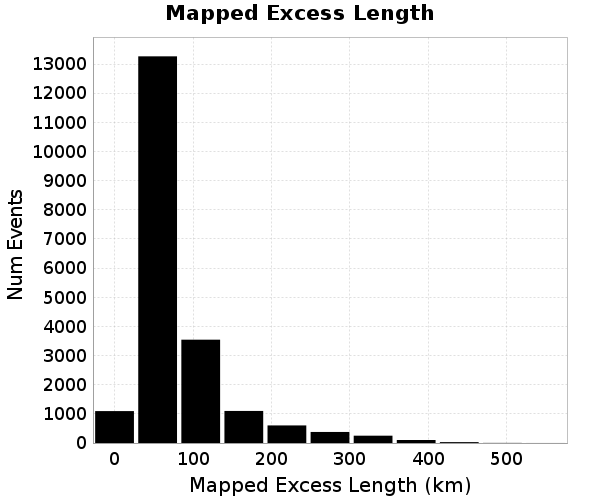
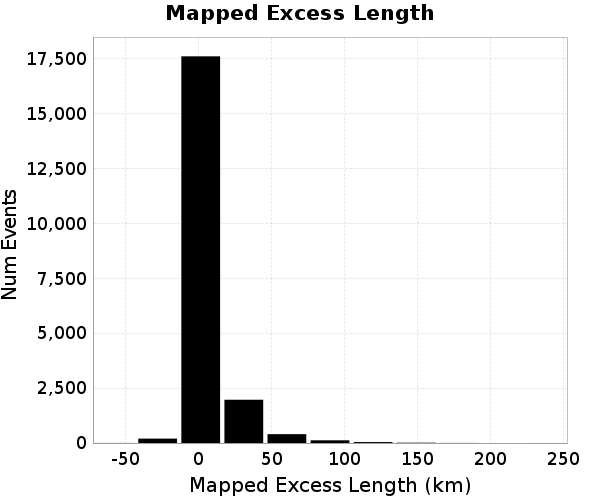
fixed length calcs

diff --git a/catalogs/rundir2457/extreme_events/index.html b/catalogs/rundir2457/extreme_events/index.html
@@ -105,11 +105,11 @@ img {
 <tr><th>Event ID</th><th>Mapped Length Ratio</th><th>Plot</th></tr>
 </thead>
 <tbody>
-<tr><td><strong>1143371</strong></td><td><strong>117.3</strong></td><td><img src="resources/event_1143371.png" alt="Rupture Plot" /></td></tr>
-<tr><td><strong>1057302</strong></td><td><strong>98.28</strong></td><td><img src="resources/event_1057302.png" alt="Rupture Plot" /></td></tr>
-<tr><td><strong>1109125</strong></td><td><strong>95.81</strong></td><td><img src="resources/event_1109125.png" alt="Rupture Plot" /></td></tr>
-<tr><td><strong>1386052</strong></td><td><strong>95.43</strong></td><td><img src="resources/event_1386052.png" alt="Rupture Plot" /></td></tr>
-<tr><td><strong>1202919</strong></td><td><strong>94.25</strong></td><td><img src="resources/event_1202919.png" alt="Rupture Plot" /></td></tr>
+<tr><td><strong>788299</strong></td><td><strong>3.27</strong></td><td><img src="resources/event_788299.png" alt="Rupture Plot" /></td></tr>
+<tr><td><strong>1277639</strong></td><td><strong>3.07</strong></td><td><img src="resources/event_1277639.png" alt="Rupture Plot" /></td></tr>
+<tr><td><strong>1296264</strong></td><td><strong>3.05</strong></td><td><img src="resources/event_1296264.png" alt="Rupture Plot" /></td></tr>
+<tr><td><strong>254462</strong></td><td><strong>3.04</strong></td><td><img src="resources/event_254462.png" alt="Rupture Plot" /></td></tr>
+<tr><td><strong>549007</strong></td><td><strong>3.03</strong></td><td><img src="resources/event_549007.png" alt="Rupture Plot" /></td></tr>
 </tbody>
 </table>
 <h2 id="mapped-excess-length">Mapped Excess Length</h2>
@@ -124,11 +124,11 @@ img {
 <tr><th>Event ID</th><th>Mapped Excess Length</th><th>Plot</th></tr>
 </thead>
 <tbody>
-<tr><td><strong>1202919</strong></td><td><strong>549.19 (km)</strong></td><td><img src="resources/event_1202919.png" alt="Rupture Plot" /></td></tr>
-<tr><td><strong>458932</strong></td><td><strong>505.05 (km)</strong></td><td><img src="resources/event_458932.png" alt="Rupture Plot" /></td></tr>
-<tr><td><strong>575055</strong></td><td><strong>497.28 (km)</strong></td><td><img src="resources/event_575055.png" alt="Rupture Plot" /></td></tr>
-<tr><td><strong>1350038</strong></td><td><strong>474.34 (km)</strong></td><td><img src="resources/event_1350038.png" alt="Rupture Plot" /></td></tr>
-<tr><td><strong>457537</strong></td><td><strong>474.17 (km)</strong></td><td><img src="resources/event_457537.png" alt="Rupture Plot" /></td></tr>
+<tr><td><strong>1202919</strong></td><td><strong>237.63 (km)</strong></td><td><img src="resources/event_1202919.png" alt="Rupture Plot" /></td></tr>
+<tr><td><strong>457537</strong></td><td><strong>178.25 (km)</strong></td><td><img src="resources/event_457537.png" alt="Rupture Plot" /></td></tr>
+<tr><td><strong>935211</strong></td><td><strong>177.56 (km)</strong></td><td><img src="resources/event_935211.png" alt="Rupture Plot" /></td></tr>
+<tr><td><strong>1452878</strong></td><td><strong>174.91 (km)</strong></td><td><img src="resources/event_1452878.png" alt="Rupture Plot" /></td></tr>
+<tr><td><strong>1497190</strong></td><td><strong>167.36 (km)</strong></td><td><img src="resources/event_1497190.png" alt="Rupture Plot" /></td></tr>
 </tbody>
 </table>
 <h2 id="moment-off-mapped-rupture">Moment Off Mapped Rupture</h2>

diff --git a/catalogs/rundir2457/extreme_events/README.md b/catalogs/rundir2457/extreme_events/README.md
@@ -74,11 +74,11 @@ Ratio of the total rupture length (UCERF3 mapped subsection rupture) to the idea
 
 | Event ID | Mapped Length Ratio | Plot |
 |-----|-----|-----|
-| **1143371** | **117.3** | ![Rupture Plot](resources/event_1143371.png) |
-| **1057302** | **98.28** | ![Rupture Plot](resources/event_1057302.png) |
-| **1109125** | **95.81** | ![Rupture Plot](resources/event_1109125.png) |
-| **1386052** | **95.43** | ![Rupture Plot](resources/event_1386052.png) |
-| **1202919** | **94.25** | ![Rupture Plot](resources/event_1202919.png) |
+| **788299** | **3.27** | ![Rupture Plot](resources/event_788299.png) |
+| **1277639** | **3.07** | ![Rupture Plot](resources/event_1277639.png) |
+| **1296264** | **3.05** | ![Rupture Plot](resources/event_1296264.png) |
+| **254462** | **3.04** | ![Rupture Plot](resources/event_254462.png) |
+| **549007** | **3.03** | ![Rupture Plot](resources/event_549007.png) |
 
 ## Mapped Excess Length
 *[(top)](#table-of-contents)*
@@ -93,11 +93,11 @@ Total rupture length (UCERF3 mapped subsection rupture) minus the idealized leng
 
 | Event ID | Mapped Excess Length | Plot |
 |-----|-----|-----|
-| **1202919** | **549.19 (km)** | ![Rupture Plot](resources/event_1202919.png) |
-| **458932** | **505.05 (km)** | ![Rupture Plot](resources/event_458932.png) |
-| **575055** | **497.28 (km)** | ![Rupture Plot](resources/event_575055.png) |
-| **1350038** | **474.34 (km)** | ![Rupture Plot](resources/event_1350038.png) |
-| **457537** | **474.17 (km)** | ![Rupture Plot](resources/event_457537.png) |
+| **1202919** | **237.63 (km)** | ![Rupture Plot](resources/event_1202919.png) |
+| **457537** | **178.25 (km)** | ![Rupture Plot](resources/event_457537.png) |
+| **935211** | **177.56 (km)** | ![Rupture Plot](resources/event_935211.png) |
+| **1452878** | **174.91 (km)** | ![Rupture Plot](resources/event_1452878.png) |
+| **1497190** | **167.36 (km)** | ![Rupture Plot](resources/event_1497190.png) |
 
 ## Moment Off Mapped Rupture
 *[(top)](#table-of-contents)*
